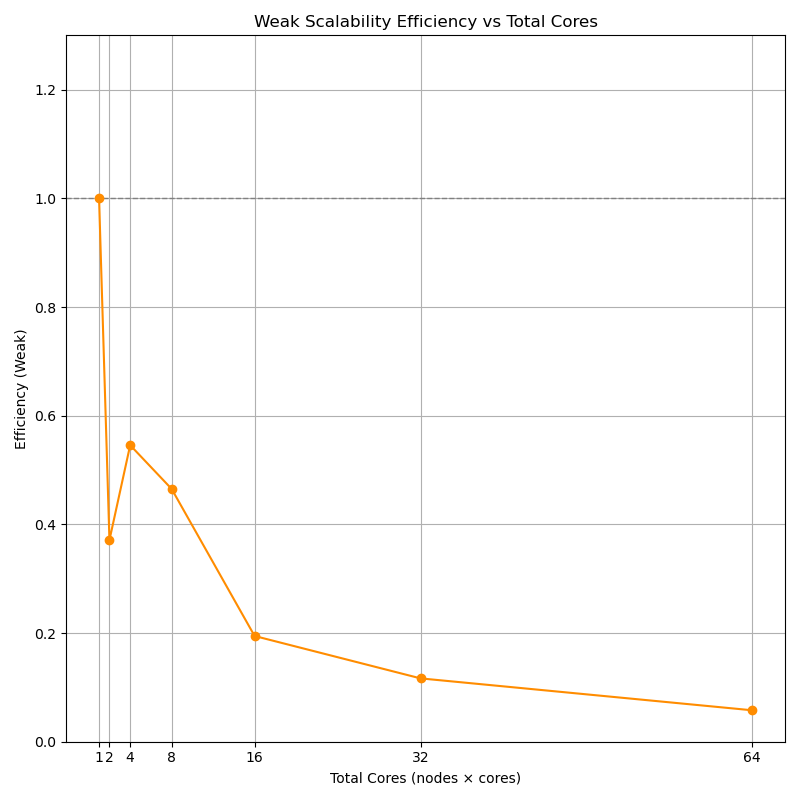
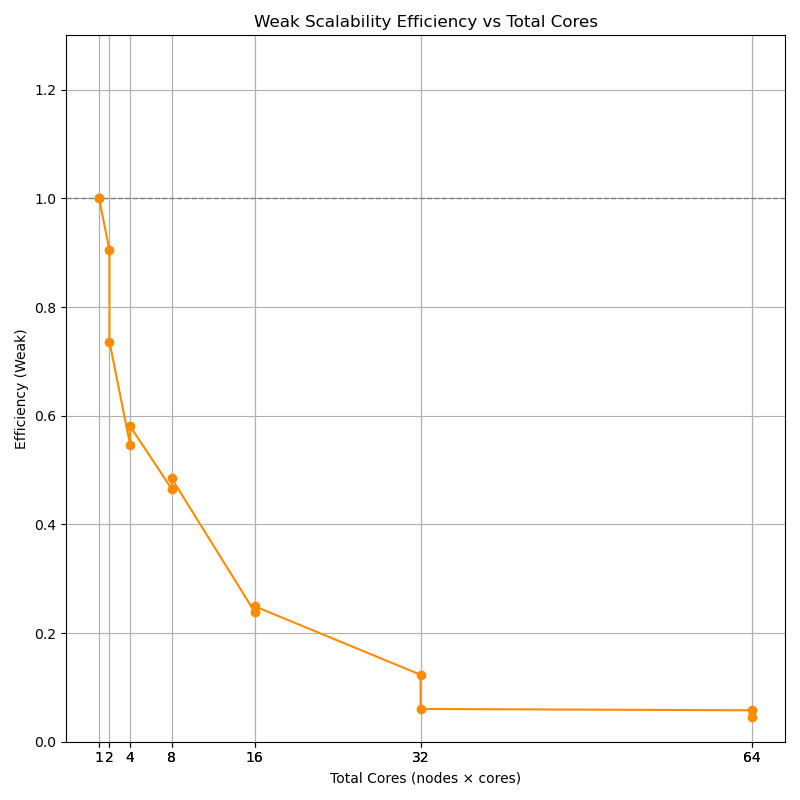
graphs

Changed region(s): [[0.2812, 0.7188, 0.9375, 0.9062], [0.125, 0.25, 0.25, 0.6875], [0.25, 0.6562, 0.2812, 0.7188]]

diff --git a/implementations/mpi_only/add_efficiency_weak_scalability.py b/implementations/mpi_only/add_efficiency_weak_scalability.py
@@ -1,0 +1,54 @@
+import json
+from collections import defaultdict
+
+# === Carica il file JSON ===
+with open("results_mpi_weak.json", "r") as f:
+    data = json.load(f)
+
+# === Raggruppa per configurazione costante tranne i processi (weak scaling) ===
+groups = defaultdict(list)
+for key, entry in data.items():
+    try:
+        nodes = entry["nodes"]
+        cores = entry["cores"]
+        total_fishes = entry["total_fishes"]
+        fishes_per_core = total_fishes // (nodes * cores)
+
+        config = (
+            entry["places"],
+            entry["dimensions"],
+            entry["iterations"],
+            entry["update_frequency"],
+            fishes_per_core
+        )
+
+        groups[config].append((key, entry))
+    except KeyError:
+        continue
+
+# === Calcola efficiency_weak per ogni gruppo ===
+for config, entries in groups.items():
+    # Trova la baseline: config con 1 nodo e 1 core
+    baseline_time = None
+    for key, entry in entries:
+        if entry["nodes"] == 1 and entry["cores"] == 1:
+            baseline_time = entry["time"]
+            break
+
+    if baseline_time is None or baseline_time <= 0:
+        continue  # Nessuna baseline valida
+
+    for key, entry in entries:
+        time = entry["time"]
+        if time > 0:
+            entry["efficiency_weak"] = baseline_time / time
+        else:
+            entry["efficiency_weak"] = 0.0
+
+        # Pulisce eventuali metriche obsolete
+        entry.pop("speedup", None)
+        entry.pop("efficiency", None)
+
+# === Salva il file modificato ===
+with open("results_mpi_weak_modified.json", "w") as f:
+    json.dump(data, f, indent=4)

diff --git a/graphs/speedup_vs_nodes_mpi_strong.py b/graphs/speedup_vs_nodes_mpi_strong.py
@@ -1,0 +1,48 @@
+import json
+import numpy as np
+import matplotlib.pyplot as plt
+from collections import defaultdict
+
+# Load your JSON data
+with open('../implementations/hybrid/results_modified.json') as f:
+    data = json.load(f)
+
+# Ask user for which "places" type to show
+choice = input("Enter 0 for 'pack', 1 for 'scatter': ")
+place_filter = 'pack' if choice == '0' else 'scatter'
+
+# Group data by total_fishes
+grouped_data = defaultdict(list)
+
+for run_id, values in data.items():
+    if values["cores"] == 1 and values["places"] == place_filter:
+        total_fishes = values["total_fishes"]
+        nodes = values["nodes"]
+        speedup = values["speedup"]
+        grouped_data[total_fishes].append((nodes, speedup))
+
+# Plotting
+plt.figure(figsize=(8, 8))
+
+for total_fishes, points in grouped_data.items():
+    # Sort by number of cores for consistent lines
+    points.sort(key=lambda x: x[0])
+    cores, efficiencies = zip(*points)
+    plt.plot(cores, efficiencies, marker='o', label=f'{total_fishes} fishes')
+
+
+max_val = max(64,75)
+plt.plot([0, max_val], [0, max_val], 'k--', label="linear speedup")
+
+plt.ylim(0, 75)
+plt.xticks([1, 2, 4, 8, 16, 32, 64])
+plt.grid(True, which='both', axis='x')
+plt.xlabel('Number of Nodes')
+plt.ylabel('Speedup')
+plt.title(f"Speedup vs. Nodes (places: {place_filter})")
+plt.legend(title='Total Fishes')
+plt.grid(True)
+plt.tight_layout()
+# plt.show()
+plt.savefig(f"images/speedup_vs_nodes_mpi_strong_{place_filter}.png", dpi=100)
+

diff --git a/graphs/efficiency_weak_openmp.py b/graphs/efficiency_weak_openmp.py
@@ -23,7 +23,6 @@ for key, entry in data.items():
             fishes_per_core,
             entry["dimensions"],
             entry["iterations"],
-            entry["places"],
             entry["update_frequency"]
         )
         groups[group_key].append((key, entry))
@@ -39,9 +38,8 @@ for group_key, entries in groups.items():
 
     iterations_set = {e["iterations"] for _, e in entries}
     dimensions_set = {e["dimensions"] for _, e in entries}
-    places_set = {e["places"] for _, e in entries}
 
-    if len(iterations_set) == 1 and len(dimensions_set) == 1 and len(places_set) == 1:
+    if len(iterations_set) == 1 and len(dimensions_set) == 1:
         valid_groups[group_key] = entries
 
 if not valid_groups:
@@ -52,8 +50,8 @@ if not valid_groups:
 print("Gruppi validi:")
 group_keys = list(valid_groups.keys())
 for i, group_key in enumerate(group_keys):
-    fishes_per_core, dimensions, iterations, places, freq = group_key
-    print(f"[{i}] Fishes/core: {fishes_per_core}, Dim: {dimensions}, Iter: {iterations}, Places: {places}, Freq: {freq}, Entries: {len(valid_groups[group_key])}")
+    fishes_per_core, dimensions, iterations, freq = group_key
+    print(f"[{i}] Fishes/core: {fishes_per_core}, Dim: {dimensions}, Iter: {iterations}, Freq: {freq}, Entries: {len(valid_groups[group_key])}")
 
 try:
     selected_index = int(input("Seleziona il numero del gruppo da analizzare: "))

diff --git a/graphs/speedup_vs_nodes_openmp_strong.py b/graphs/speedup_vs_nodes_openmp_strong.py
@@ -1,0 +1,45 @@
+import json
+import numpy as np
+import matplotlib.pyplot as plt
+from collections import defaultdict
+
+# Load your JSON data
+with open('../implementations/hybrid/results_modified.json') as f:
+    data = json.load(f)
+
+
+# Group data by total_fishes
+grouped_data = defaultdict(list)
+
+for run_id, values in data.items():
+    if values["cores"] == 1:
+        total_fishes = values["total_fishes"]
+        nodes = values["nodes"]
+        speedup = values["speedup"]
+        grouped_data[total_fishes].append((nodes, speedup))
+
+# Plotting
+plt.figure(figsize=(8, 8))
+
+for total_fishes, points in grouped_data.items():
+    # Sort by number of cores for consistent lines
+    points.sort(key=lambda x: x[0])
+    cores, efficiencies = zip(*points)
+    plt.plot(cores, efficiencies, marker='o', label=f'{total_fishes} fishes')
+
+
+max_val = max(64,75)
+plt.plot([0, max_val], [0, max_val], 'k--', label="linear speedup")
+
+plt.ylim(0, 75)
+plt.xticks([1, 2, 4, 8, 16, 32, 64])
+plt.grid(True, which='both', axis='x')
+plt.xlabel('Number of Nodes')
+plt.ylabel('Speedup')
+plt.title(f"Speedup vs. Nodes")
+plt.legend(title='Total Fishes')
+plt.grid(True)
+plt.tight_layout()
+# plt.show()
+plt.savefig(f"images/speedup_vs_nodes_openmp_strong.png", dpi=100)
+
